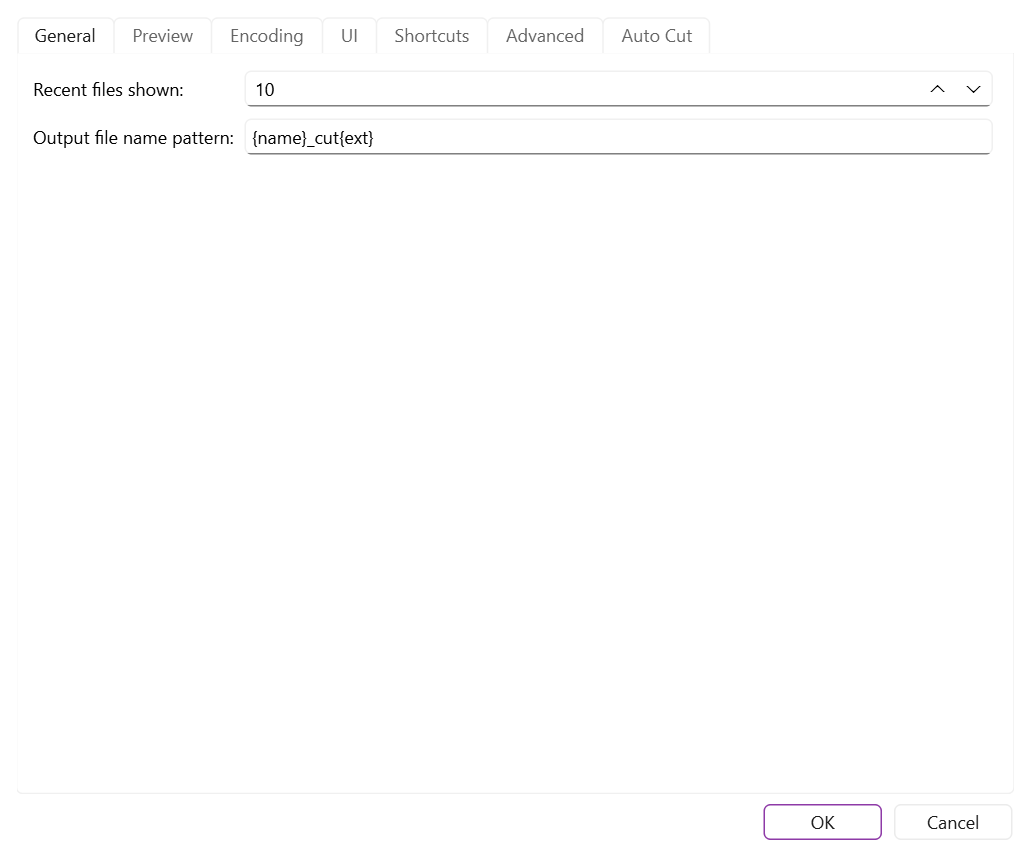
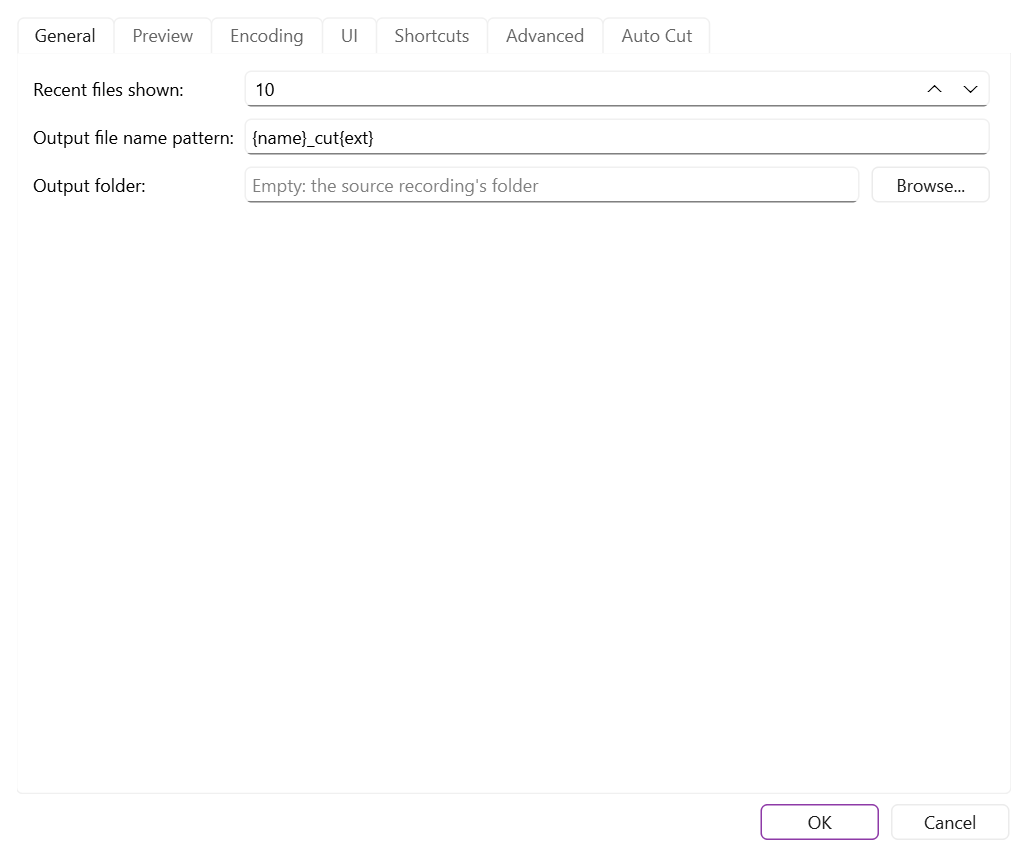
Warn about old ffmpeg, add the output folder setting, version 0.1.1 (#3)
* Warn about ffmpeg older than 8, add the output folder setting, write the encoder probe to Temp/

- At startup, check the ffmpeg version in the background and warn when it
  is older than 8 (the app still starts).
- Settings → General gets "Output folder" (empty: the source recording's
  folder). A folder that does not exist is not saved.
- The hardware encoder detection writes its test file to the app's Temp/
  folder instead of the OS temporary folder.

* Version 0.1.1

---------

diff --git a/ts_smartcut/gui/settings_dialog.py b/ts_smartcut/gui/settings_dialog.py
@@ -131,6 +131,9 @@ class SettingsDialog(QDialog):
         self.output_pattern_edit.setToolTip(tr("settings.output_pattern_tip"))
         form.addRow(tr("settings.output_pattern"), self.output_pattern_edit)
 
+        self.output_dir_edit, output_dir_row = self._output_dir_row(self._settings.default_output_dir)
+        form.addRow(tr("settings.output_dir"), output_dir_row)
+
 
 
         return widget
@@ -193,6 +196,26 @@ class SettingsDialog(QDialog):
         self._update_encode_controls()
 
         return widget
+
+    def _output_dir_row(self, path):
+        """出力先のフォルダの欄と「参照」ボタン。空なら元の録画と同じフォルダ。"""
+        edit = QLineEdit(str(path) if path else "")
+        edit.setPlaceholderText(tr("settings.output_dir_default"))
+        button = QPushButton(tr("settings.template_browse"))
+
+        def browse() -> None:
+            name = QFileDialog.getExistingDirectory(self, tr("settings.output_dir_choose"), edit.text())
+            if name:
+                edit.setText(name)
+
+        button.clicked.connect(browse)
+        box = QHBoxLayout()
+        box.setContentsMargins(0, 0, 0, 0)
+        box.addWidget(edit, 1)
+        box.addWidget(button)
+        row = QWidget()
+        row.setLayout(box)
+        return edit, row
 
     def _template_row(self, path, file_filter: str):
         """テンプレートのファイルの欄と「参照」ボタン。空なら同梱の既定のテンプレート。"""
@@ -333,6 +356,12 @@ class SettingsDialog(QDialog):
             QMessageBox.warning(self, tr("settings.title"), error)
             self.output_pattern_edit.setFocus()
             return
+        # 無いフォルダの出力先も保存しない(処理の時に初めて気づくより早く知らせる)
+        output_dir = self.output_dir_edit.text().strip()
+        if output_dir and not Path(output_dir).is_dir():
+            QMessageBox.warning(self, tr("settings.title"), tr("settings.output_dir_missing", path=output_dir))
+            self.output_dir_edit.setFocus()
+            return
         # 誤ったテンプレート(読めない・置き換える文字が無い)も保存しない
         for output_format, edit in ((script_output.OUTPUT_AVS, self.avs_template_edit),
                                     (script_output.OUTPUT_VPY, self.vpy_template_edit)):
@@ -351,6 +380,8 @@ class SettingsDialog(QDialog):
         s = self._settings
         s.recent_files_count = self.recent_files_count_spin.value()
         s.output_filename_pattern = self.output_pattern_edit.text()
+        output_dir = self.output_dir_edit.text().strip()
+        s.default_output_dir = Path(output_dir) if output_dir else None
 
         s.audio_output_device = self.audio_device_combo.currentData()
         s.show_waveform = self.show_waveform_check.isChecked()

diff --git a/tests/test_dependency_checker.py b/tests/test_dependency_checker.py
@@ -1,4 +1,7 @@
-from ts_smartcut.system.dependency_checker import DependencyChecker
+import pytest
+
+from ts_smartcut.system import dependency_checker as dependency_checker_module
+from ts_smartcut.system.dependency_checker import MIN_FFMPEG_MAJOR, DependencyChecker, ffmpeg_major_version
 
 
 def test_check_ffmpeg_true_when_on_path():
@@ -33,3 +36,37 @@ def test_get_versions_parses_real_output():
 def test_get_versions_not_found_for_bogus_path():
     versions = DependencyChecker.get_versions(mpv_path="/nonexistent/mpv_binary_xyz")
     assert versions["mpv"] == "Not found"
+
+
+@pytest.mark.parametrize("version, major", [
+    ("n8.1.3-35-gf1acb0a266-20261115", 8),        # BtbN
+    ("9.0.2-essentials_build-www.gyan.dev", 9),   # gyan.dev (Chocolatey)
+    ("6.1.1-3ubuntu5", 6),                        # Ubuntu 24.04
+    ("7:6.1.1-3ubuntu5", 6),                      # Debian の epoch 付き
+    ("7.1", 7),
+    ("N-121234-g0123456789", None),               # 開発版: 版が読めない
+    ("2026-11-01-git-0123456789", None),
+])
+def test_ffmpeg_major_version(version, major):
+    assert ffmpeg_major_version(version) == major
+
+
+@pytest.mark.parametrize("version, old", [
+    ("7.1.5-12-g1fdbca85aa", "7.1.5-12-g1fdbca85aa"),
+    ("n8.1.3", None),
+    ("N-121234-g0123456789", None),  # 読めない版では警告しない
+])
+def test_old_ffmpeg_version(monkeypatch, version, old):
+    monkeypatch.setattr(dependency_checker_module.DependencyChecker, "_run_version",
+                        staticmethod(lambda exe, args, timeout=5: f"ffmpeg version {version} Copyright (c) 2000-2026\n"))
+    assert DependencyChecker.old_ffmpeg_version() == old
+
+
+def test_old_ffmpeg_version_none_when_missing():
+    assert DependencyChecker.old_ffmpeg_version("/nonexistent/ffmpeg_binary_xyz") is None
+
+
+def test_installed_ffmpeg_is_new_enough():
+    # テストの環境(手元・CI)は必要な版を満たす
+    assert DependencyChecker.old_ffmpeg_version() is None
+    assert MIN_FFMPEG_MAJOR == 8

diff --git a/ts_smartcut/main.py b/ts_smartcut/main.py
@@ -121,6 +121,7 @@ def main() -> int:
     window = MainWindow(settings)
     window.show()
     _warn_if_native_missing(window)
+    _warn_if_old_ffmpeg(window, settings)
 
     exit_code = app.exec()
 
@@ -150,3 +151,35 @@ def _warn_if_native_missing(window) -> None:
 
 if __name__ == "__main__":
     sys.exit(main())
+
+
+def _warn_if_old_ffmpeg(window, settings) -> None:
+    """ffmpeg が必要な版(8)より古ければ、起動の後に知らせる。版は裏で調べる(起動を待たせない)。
+    古くても動く所はあるので起動は止めない(2026-11-16、利用者の決定)。"""
+    from PySide6.QtCore import QObject, Signal
+    from PySide6.QtWidgets import QMessageBox
+
+    from ts_smartcut.i18n.language_manager import tr
+    from ts_smartcut.system.dependency_checker import MIN_FFMPEG_MAJOR, DependencyChecker
+
+    class _Bridge(QObject):
+        found = Signal(str)
+
+    bridge = _Bridge(window)  # 窓の子: GUI のスレッドで受け、窓と一緒に消える
+    bridge.found.connect(lambda version: QMessageBox.warning(
+        window, tr("messages.ffmpeg_old_title"),
+        tr("messages.ffmpeg_old", version=version, required=MIN_FFMPEG_MAJOR),
+    ))
+
+    def check() -> None:
+        version = DependencyChecker.old_ffmpeg_version(settings.ffmpeg_path)
+        if version is None:
+            return
+        logging.getLogger(LOGGER_NAME).warning(
+            "ffmpeg %s is older than the required %d; some processing may go wrong", version, MIN_FFMPEG_MAJOR)
+        try:
+            bridge.found.emit(version)
+        except RuntimeError:
+            pass  # 調べ終わる前に窓が閉じた
+
+    threading.Thread(target=check, daemon=True).start()

diff --git a/ts_smartcut/system/dependency_checker.py b/ts_smartcut/system/dependency_checker.py
@@ -23,6 +23,18 @@ _VERSION_PATTERNS: Dict[str, re.Pattern] = {
     "mpv": re.compile(r"mpv\s+v?(\S+)"),
 }
 
+# 必要な ffmpeg の版(README・資料と同じ)。7.x はインターレースの H.264 をビットレート指定で
+# 再エンコードすると灰色の絵になり、6.x はストリームのコピーで進み具合を出さない(2026-11-15)
+MIN_FFMPEG_MAJOR = 8
+# "n8.1.3-35-g…"(BtbN)、"9.0.2-essentials_build-…"(gyan.dev)、"7:6.1.1-3ubuntu5"(Debian の epoch 付き)など
+_FFMPEG_MAJOR = re.compile(r"^(?:\d+:)?n?(\d+)\.\d")
+
+
+def ffmpeg_major_version(version: str) -> Optional[int]:
+    """get_versions() の ffmpeg の版から主の番号を取る。開発版("N-12345-g…")など読めない時は None。"""
+    match = _FFMPEG_MAJOR.match(version)
+    return int(match.group(1)) if match else None
+
 
 class DependencyChecker:
     @staticmethod
@@ -84,3 +96,13 @@ class DependencyChecker:
             match = _VERSION_PATTERNS[tool].search(output)
             versions[tool] = match.group(1) if match else "Unknown"
         return versions
+
+    @staticmethod
+    def old_ffmpeg_version(ffmpeg_path: Optional[Union[str, Path]] = None) -> Optional[str]:
+        """ffmpeg が MIN_FFMPEG_MAJOR より古ければその版を返す(新しい・見つからない・読めない時は None)。"""
+        output = DependencyChecker._run_version(ffmpeg_path or "ffmpeg", _VERSION_ARGS["ffmpeg"])
+        match = _VERSION_PATTERNS["ffmpeg"].search(output or "")
+        if not match:
+            return None
+        major = ffmpeg_major_version(match.group(1))
+        return match.group(1) if major is not None and major < MIN_FFMPEG_MAJOR else None

diff --git a/tests/test_gui_dialogs.py b/tests/test_gui_dialogs.py
@@ -158,6 +158,32 @@ def test_settings_dialog_rejects_invalid_filename_pattern(qapp, monkeypatch):
     assert dialog.get_settings().output_filename_pattern == "{name}_{date}{ext}"
 
 
+
+def test_settings_dialog_sets_and_clears_the_output_folder(qapp, tmp_path, monkeypatch):
+    warnings = []
+    monkeypatch.setattr("ts_smartcut.gui.settings_dialog.QMessageBox.warning",
+                        lambda parent, title, text: warnings.append(text))
+    dialog = SettingsDialog(AppSettings())
+    assert dialog.output_dir_edit.text() == ""  # 空欄 = 元の録画と同じフォルダ
+    # 無いフォルダは保存しない
+    missing = tmp_path / "missing"
+    dialog.output_dir_edit.setText(str(missing))
+    dialog.accept()
+    assert dialog.result() != dialog.DialogCode.Accepted and str(missing) in warnings[0]
+
+    dialog.output_dir_edit.setText(f"  {tmp_path}  ")
+    dialog.accept()
+    assert dialog.result() == dialog.DialogCode.Accepted
+    assert dialog.get_settings().default_output_dir == tmp_path
+    dialog.close()
+
+    dialog = SettingsDialog(AppSettings(default_output_dir=tmp_path))
+    assert dialog.output_dir_edit.text() == str(tmp_path)
+    dialog.output_dir_edit.setText("")
+    dialog.accept()
+    assert dialog.get_settings().default_output_dir is None
+    dialog.close()
+
 DEVICES = [("auto", "Autoselect device"), ("pulse/speaker", "スピーカー"), ("pulse/usb", "USBヘッドホン")]
 
 

diff --git a/tests/test_main_entry.py b/tests/test_main_entry.py
@@ -52,3 +52,25 @@ def test_main_loads_settings_configures_logging_and_saves_on_exit(qapp, tmp_path
     windows_seen[0].deleteLater()
     qapp.processEvents()
     qapp.processEvents()
+
+
+def test_old_ffmpeg_is_reported_after_start(qapp, monkeypatch):
+    from PySide6.QtWidgets import QMessageBox, QWidget
+
+    from tests._qt_helpers import pump_events
+    from ts_smartcut.models import AppSettings
+    from ts_smartcut.system.dependency_checker import DependencyChecker
+
+    shown = []
+    monkeypatch.setattr(QMessageBox, "warning", lambda parent, title, text: shown.append((parent, text)))
+    monkeypatch.setattr(DependencyChecker, "old_ffmpeg_version", staticmethod(lambda path=None: "7.1.5"))
+    window = QWidget()
+    main_module._warn_if_old_ffmpeg(window, AppSettings())
+    assert pump_events(qapp, lambda: shown)
+    assert shown[0][0] is window and "7.1.5" in shown[0][1] and "8" in shown[0][1]
+
+    shown.clear()
+    monkeypatch.setattr(DependencyChecker, "old_ffmpeg_version", staticmethod(lambda path=None: None))
+    main_module._warn_if_old_ffmpeg(window, AppSettings())
+    assert not pump_events(qapp, lambda: shown, timeout_ms=500)
+    window.deleteLater()

diff --git a/ts_smartcut/ffmpeg/gpu.py b/ts_smartcut/ffmpeg/gpu.py
@@ -30,6 +30,7 @@ from typing import Callable, Dict, List, Optional, Union
 
 from ts_smartcut.i18n.language_manager import english, tr
 from ts_smartcut.system.child_processes import no_window
+from ts_smartcut.system.temp_file_manager import app_temp_dir
 
 CPU_ENCODER = "libx264"
 
@@ -295,7 +296,8 @@ def probe_interlaced_encoding(
     filters = ["tinterlace=interleave_top", "setfield=tff"]
     if hw_filter(encoder_name):
         filters.append(hw_filter(encoder_name))
-    with tempfile.TemporaryDirectory() as tmp:
+    # アプリの一時フォルダ(実行ファイルの横の Temp/)に書く。OS の一時フォルダは使わない(2026-11-16)
+    with tempfile.TemporaryDirectory(prefix="probe_", dir=app_temp_dir()) as tmp:
         out = Path(tmp) / "probe.ts"
         try:
             encode = subprocess.run(

diff --git a/ts_smartcut/__init__.py b/ts_smartcut/__init__.py
@@ -2,4 +2,4 @@
 
 # バージョンの唯一の定義元。pyproject.tomlもここを参照する
 # （[tool.setuptools.dynamic]）。
-__version__ = "0.1.0"
+__version__ = "0.1.1"

diff --git a/docs/User_Guide_jp.md b/docs/User_Guide_jp.md
@@ -114,7 +114,7 @@
 
 ## 5. 出力
 
-- 出力先は元の録画と同じフォルダです（保存名称を尋ねる画面に「保存先」として出ます）。
+- 出力先は「設定 → 全般」の「出力先」のフォルダです。空欄（既定）なら元の録画と同じフォルダです（保存名称を尋ねる画面に「保存先」として出ます）。
 - ファイル名の初めの案は「設定 → 全般」の「出力ファイル名パターン」で決まります（既定 `{name}_cut{ext}`）。置き換え文字は `{name}`（元のファイル名）・`{ext}`（拡張子）・`{date}`（処理日 `YYYYMMDD`）・`{time}`（処理時刻 `HHMMSS`）です。
 - 拡張子は常に元と同じです。同じ名前のファイルがあれば `_001` などの番号を付け、今あるファイルは上書きしません。元の録画も上書きしません。
 - 処理中は、出力先に `.ts_smartcut_temp` フォルダを作って一時ファイルを置きます（終われば消えます）。ステータスバーの右端に、出力先の空き容量が出ます。
@@ -125,7 +125,7 @@
 
 | タブ | 項目 |
 |---|---|
-| 全般 | 最近使用したファイルの数、出力ファイル名パターン |
+| 全般 | 最近使用したファイルの数、出力ファイル名パターン、出力先 |
 | プレビュー | 音声出力デバイス、音声波形の表示 / 非表示 |
 | エンコード | 既定の処理モード、出力形式（TS / AVS / VPY）とテンプレート、スレッド数、ハードウェアエンコーダーの判定結果と「再判定」 |
 | UI | テーマ（ライト / ダーク / OS に従う）、言語（再起動後に反映） |

diff --git a/docs/User_Guide.md b/docs/User_Guide.md
@@ -114,7 +114,7 @@ Opening a broadcast recording (a TS with the EIT and TOT programme information) 
 
 ## 5. Output files
 
-- The output goes to the source recording's folder (shown in the output name dialog).
+- The output goes to "Output folder" in Settings → General; when it is empty (the default), to the source recording's folder (shown in the output name dialog).
 - The suggested file name comes from "Output file name pattern" in Settings → General (default `{name}_cut{ext}`): `{name}` (source name), `{ext}` (extension), `{date}` (processing date `YYYYMMDD`), `{time}` (processing time `HHMMSS`).
 - The extension is always the source's. A taken name gets a number such as `_001`; existing files are never overwritten, and neither is the source.
 - While processing, a `.ts_smartcut_temp` folder holds temporary files in the output folder (removed afterwards). The right end of the status bar shows the free space of the output folder.
@@ -125,7 +125,7 @@ Open with File → Settings.
 
 | Tab | Items |
 |---|---|
-| General | Number of recent files, output file name pattern |
+| General | Number of recent files, output file name pattern, output folder |
 | Preview | Audio output device, show / hide the waveform |
 | Encoding | Default processing mode, output format (TS / AVS / VPY) and templates, threads, the hardware encoder detection result and Detect again |
 | UI | Theme (light / dark / system), language (after a restart) |

diff --git a/README_jp.md b/README_jp.md
@@ -38,7 +38,7 @@
 ## 必要なもの
 
 - Windows 10 / 11（64 ビット）または Linux（x86-64、glibc 2.39 以降。Ubuntu 24.04 以降と同じ世代のディストリビューション）
-- **ffmpeg / ffprobe（8 以降）** … PATH の上に必要です。同梱していません。古い版は正しく動きません（7.x はインターレースの H.264 を作り直すと灰色の絵になり、6.x はコピーの進捗が出ません）。Ubuntu 24.04 の標準のパッケージは 6.1 なので、新しいビルドを使ってください
+- **ffmpeg / ffprobe（8 以降）** … PATH の上に必要です。同梱していません。古い版は正しく動きません（7.x はインターレースの H.264 を作り直すと灰色の絵になり、6.x はコピーの進捗が出ません）。Ubuntu 24.04 の標準のパッケージは 6.1 なので、新しいビルドを使ってください。古い時は起動の時に知らせます
 - **mpv（libmpv）** … プレビューに使います。同梱していません。無くても起動し、カットの編集はすべて使えます（プレビューが出ないだけです）
   - Windows: `libmpv-2.dll`（または `mpv-2.dll`）を PATH の通ったフォルダに置きます
   - Linux: ディストリビューションの mpv / libmpv のパッケージを入れます

diff --git a/README.md b/README.md
@@ -39,7 +39,7 @@ How to use it: **[User Guide (docs/User_Guide.md)](docs/User_Guide.md)**.
 ## Requirements
 
 - Windows 10 / 11 (64-bit) or Linux (x86-64, glibc 2.39 or later: distributions of the Ubuntu 24.04 generation or newer)
-- **ffmpeg / ffprobe 8 or later** on PATH — not bundled. Older versions misbehave: 7.x re-encodes interlaced H.264 as gray pictures, 6.x reports no progress for stream copy (Ubuntu 24.04's own package is 6.1; use a newer build there)
+- **ffmpeg / ffprobe 8 or later** on PATH — not bundled. Older versions misbehave: 7.x re-encodes interlaced H.264 as gray pictures, 6.x reports no progress for stream copy (Ubuntu 24.04's own package is 6.1; use a newer build there). The app warns at startup when ffmpeg is older
 - **mpv (libmpv)** for the preview — not bundled. Without it the app still starts and all cut editing works (only the preview is missing)
   - Windows: put `libmpv-2.dll` (or `mpv-2.dll`) in a folder on PATH
   - Linux: install your distribution's mpv / libmpv package
